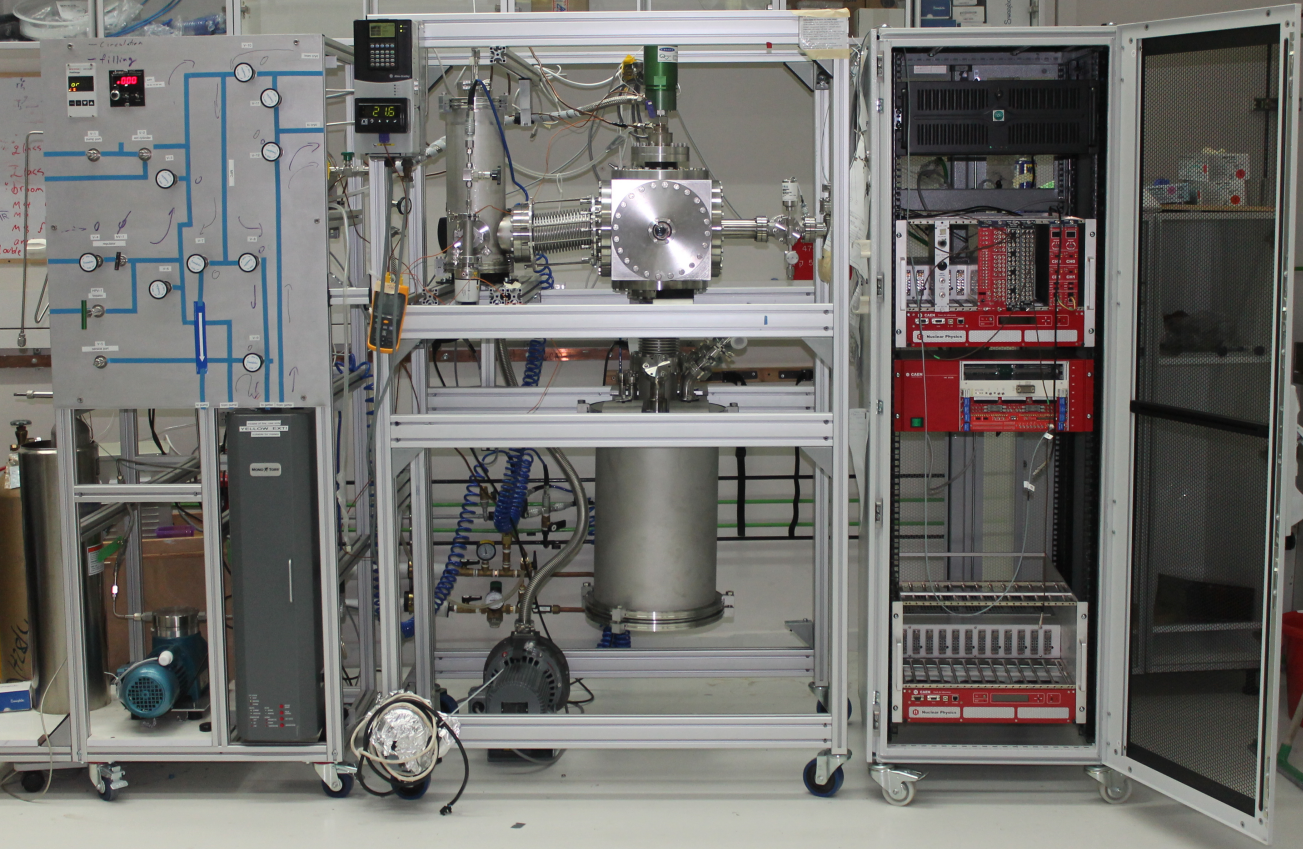
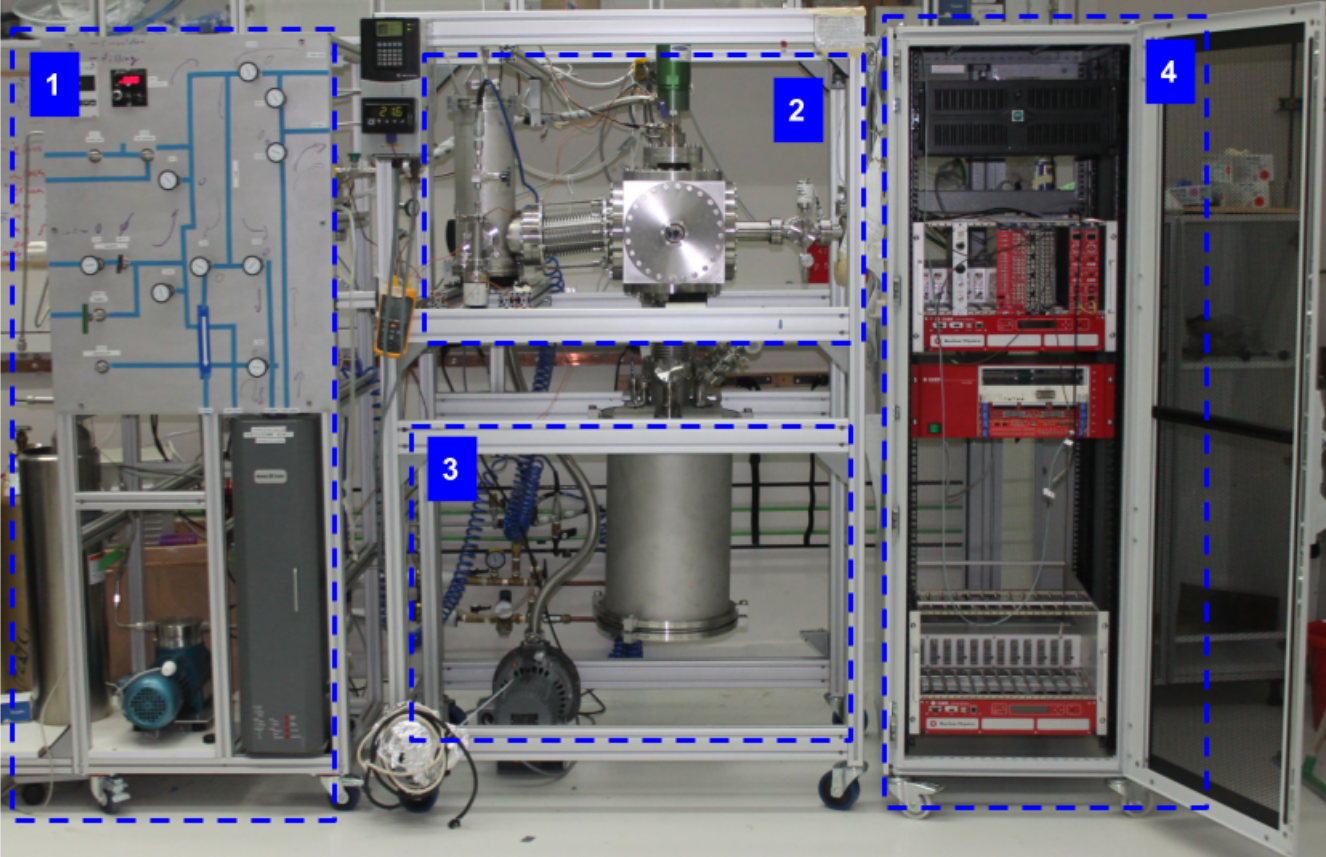
changing 1 image and working on intro to expe setup

diff --git a/ExpSetup1.tex b/ExpSetup1.tex
@@ -6,28 +6,35 @@
 %Last modified by: MM Devi, May 26 2017
 %Comment: The detector section has been modified. MMdevi's changes are made in blue
 %%%%%%%%%%%%%%%%%%%%%%%%%%%%%%%%%%%%%%%%%%%%%%%%%%%%%%%%%%%%%%%%%%%%%%%%%%%%%%%%%%%%%%%%%%%%%%%%%%%%%%%%%%%%%%%
+\RanComment{Im missing a sentence before this explaining that the system is designed to measure spatial and temporal properties of the system}
 
-The experimental setup of DIREXENO is described in this section. This setup is 
-designed to measure the spatial and temporal properties of LXe scintillation. 
-It consists of a modular design in order to extend its flexibility
-to fulfill the requirement of any different future experiments. 
+In the DIREXENO system LXe is circulated through a small spherical cavity held in a thick HPFS sphere . The sphere is surrounded (4$\pi$) by PMTs allowing a high resolution spatial and temporal measurement of the scintillation processes of  LXe. The geometrical design of the system simulates a point like source of scintillation photons, so a detailed vertex reconstruction within the LXe drop is unnecessary. (see fig xxx) 
 
-Four main building blocks constitutes of the full setup, a schematics 
-of which, with the interfaces between them is shown in Fig.~\ref{fig:fullschematics}. 
-The gas handling system, in normal working mode, drives the xenon from the detector through 
+The guiding principles in the design were fast and easy recovery in case of  malfunction and flexibility to upgrade or redesign any part of the system to fulfill the requirement of any future experiment.
+This is achieved by a modular design. There are four main building blocks constitutes of the full setup The gas handling system, in normal working mode, drives the xenon from the detector through 
 a purifier and cycles it back into the detector. The cryogenic system, liquefies the xenon and 
 delivers it to the detector system. The detector system consists of a fused silica sphere that 
 holds a small bubble of LXe target, and PMTs around the sphere. The supply of high voltage (HV) 
-to the PMTs and the data readout are carried out through the 
-data acquisition system (DAQ) system. 
-These four building blocks are independent of each other construction wise, and can be 
-replaced without altering features in the others. 
+to the PMTs and the data readout are carried out through the data acquisition system (DAQ) system.
+ 
+%The experimental setup of DIREXENO is described in this section. This setup is  designed to measure the spatial and temporal properties of LXe scintillation. It consists of a modular design in order to extend its flexibility to fulfill the requirement of any different future experiments. 
 
-\begin{figure}[h]
-\centerline{\includegraphics[width=0.8\linewidth]{WholeSys.png}}
-\caption{A schematic of DIREXENO showing all the four building blocks of the system.}
-\label{fig:fullschematics}
-\end{figure}
+%The four main building blocks constitutes of the full setup, a schematics 
+%of which, with the interfaces between them is shown in Fig.~\ref{fig:fullschematics}. 
+%The gas handling system, in normal working mode, drives the xenon from the detector through 
+%a purifier and cycles it back into the detector. The cryogenic system, liquefies the xenon and 
+%delivers it to the detector system. The detector system consists of a fused silica sphere that 
+%holds a small bubble of LXe target, and PMTs around the sphere. The supply of high voltage (HV) 
+%to the PMTs and the data readout are carried out through the 
+%data acquisition system (DAQ) system. 
+%These four building blocks are independent of each other construction wise, and can be 
+%replaced without altering features in the others. 
+
+%\begin{figure}[h]
+%\centerline{\includegraphics[width=0.8\linewidth]{WholeSys.png}}
+%\caption{A schematic of DIREXENO showing all the four building blocks of the system.}
+%\label{fig:fullschematics}
+%\end{figure}
 
 The full assembly, shown in Fig.~\ref{fig:fulldet}, is held on three separate racks, 
 one for the gas handling system, another to hold the cryogenic and the 
@@ -36,9 +43,8 @@ detector while the third one is assigned for the DAQ. The racks are joined using
 DIREXENO are based on~\cite{Giboni}.  
 
 \begin{figure}[h]
-\centerline{\includegraphics[width=0.8\linewidth]{FullDet.jpg}}
-\caption{DIREXENO. On the left the purification system, in the middle the cryogenic and detector 
-chamber, and on th right the Data acquisition system.}
+\centerline{\includegraphics[width=0.8\linewidth]{FullSys.png}}
+\caption{DIREXENO. 1. The gas handling system. 2. The cryogenic system including the heat exchanger. 3. The detector chamber. 4. The Data acquisition system.}
 \label{fig:fulldet}
 \end{figure}
 
@@ -57,13 +63,13 @@ with all gas handling operations such as filling and recuperation.
 During purification mode, xenon is taken from the chamber (in liquid phase)
 passes through a heat exchanger\footnote{GEA GBS100M-24 plate heat exchanger} 
 where it is heated and vaporized. The xenon is forced 
-by a KNF diaphragm pump into a hot getter\footnote{MONO-TORR
+by a diaphragm pump(TODO add footnote) into a hot getter\footnote{MONO-TORR
 PS4-MT15-R-2} which cleans the xenon from most impurities. The xenon
-also passes through an MKS Mass Flow Controller\footnote{MKS mass flow controller} (MFC), 
+also passes through a mass flow controller\footnote{MKS mass flow controller} (MFC), 
 this allows monitoring and controlling the amount of xenon in the system. 
 
 After the xenon is purified, it is delivered back to the cryogenic system 
-through the heat exchanger, where the remaining gaseous xenon is 
+through the heat exchanger, where the remaining GXe is 
 liquefied before it continues back to the chamber. A schematic of this 
 system is shown in fig.~\ref{fig:gasSchematic}.
 

diff --git a/Intro.tex b/Intro.tex
@@ -21,4 +21,4 @@ The phenomenon of supperradiance in which identical quantum states ``communicate
 
 The understanding and quantification of the microscopic effects of non linear phenomena such as supperradiance in Lxe for a single interaction, can improve DM experiments to reduce background by the extra knowledge of directionality. irreducible background such as coherent neutrino nucleus scattering of neutrinos from the sun can be discard.
 
-In this paper we present an experimental set-up called DIREXENO (Dirextional Xenon) aiming at measuring the spatial distribution of LXe scintillation light, and quantify non-isotropic emission.   
+In this paper we present an experimental set-up called DIREXENO (Directional Xenon) aiming at measuring the spatial distribution of LXe scintillation light, and quantify non-isotropic emission.   
